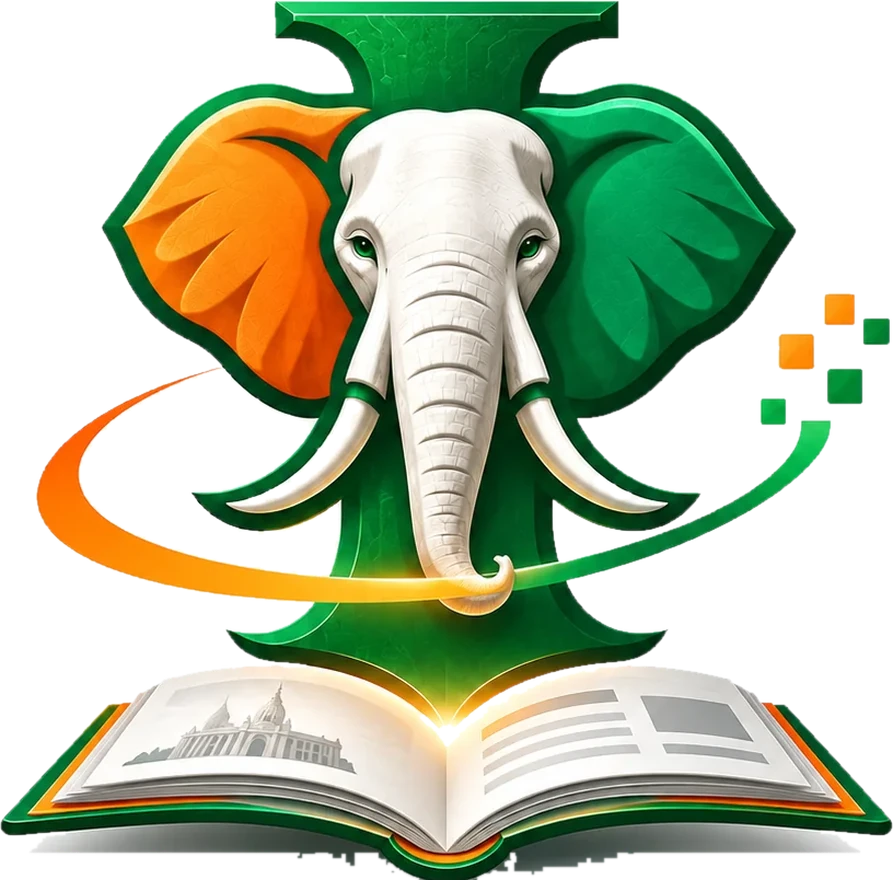
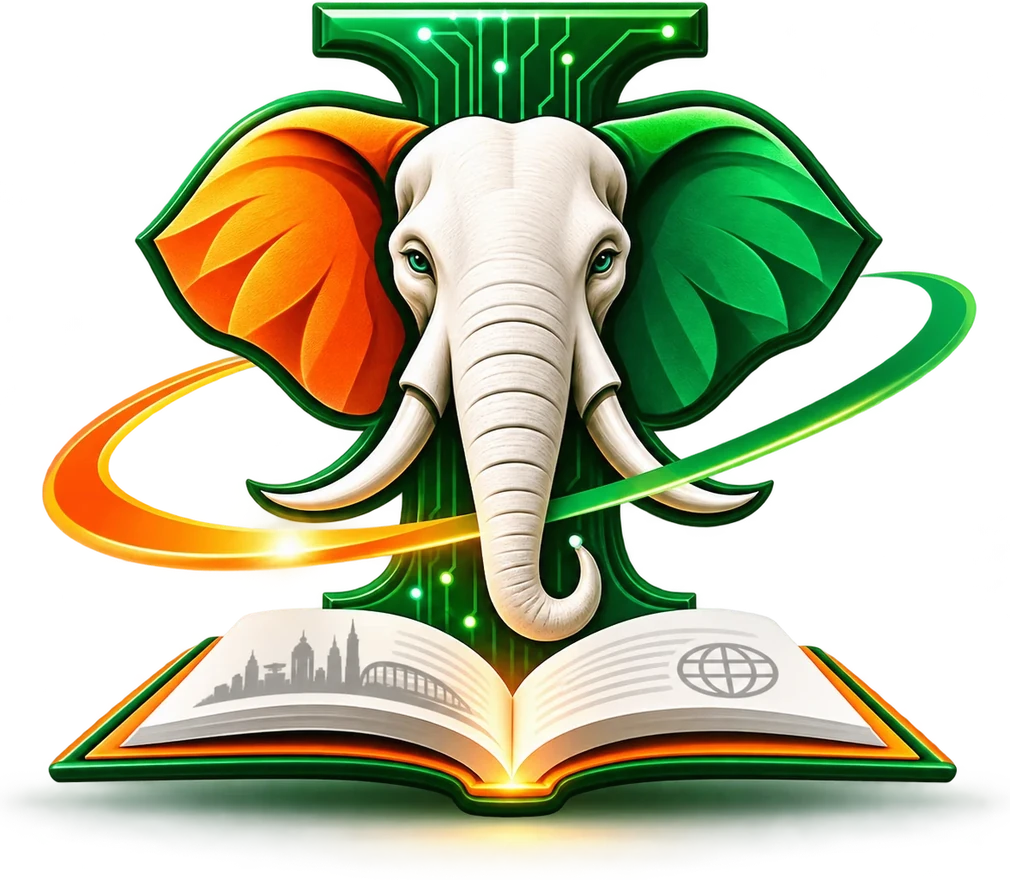
feat(brand): integrate the new emblem and wordmark assets
Rebuild marque, signature and icon files from the provided cutout
sources, fix the launch logo height, and mirror the fallbacks into
backend/public for the JSON-LD publisher logo.

🤖 Generated with Codebuff

diff --git a/app/lib/src/ui/cover.dart b/app/lib/src/ui/cover.dart
@@ -104,7 +104,7 @@ class CoverSheet extends StatelessWidget {
         color: IvoireColors.ivory,
         child: LayoutBuilder(
           builder: (context, constraints) {
-            // La signature est très large (1 200 × 282) : c'est la largeur
+            // La signature est très large (1 200 × 298) : c'est la largeur
             // qui contraint, sinon elle déborderait d'un téléphone. Elle est
             // contenue dans cette boîte, jamais rognée.
             final boxWidth = math.max(

diff --git a/app/web/index.html b/app/web/index.html
@@ -130,7 +130,7 @@
     <!-- WebP d'abord (26 ko), PNG en repli : la marque s'affiche tout de suite. -->
     <picture>
       <source srcset="logo.webp" type="image/webp">
-      <img src="logo.png" width="1200" height="282"
+      <img src="logo.png" width="1200" height="298"
            alt="Ivoirepedia, l’encyclopédie libre de la Côte d’Ivoire">
     </picture>
     <div class="progress"></div>

diff --git a/tools/build_brand_assets.py b/tools/build_brand_assets.py
@@ -1,9 +1,10 @@
 """Dérive les visuels de la marque IVOIREPEDIA depuis les originaux fournis.
 
-Les sources sont des images au fond crème (ou blanc) : le script détoure le
-fond par diffusion depuis les bords, retire le liseré clair, puis écrit les
-fichiers utilisés par l'application Flutter, l'écran de chargement HTML et
-les icônes d'onglet.
+Les sources sont fournies par le propriétaire du site : la dernière version
+est déjà détourée (canal alpha), le script se contente alors de la recadrer.
+Si une source revient sur fond crème (ou blanc), `cutout()` la détoure par
+diffusion depuis les bords. Le script écrit ensuite les fichiers utilisés par
+l'application Flutter, l'écran de chargement HTML et les icônes d'onglet.
 
 Utilisation (depuis la racine du dépôt) :
 
@@ -25,8 +26,12 @@ IMAGES = ROOT / "app" / "assets" / "images"
 WEB = ROOT / "app" / "web"
 ICONS = WEB / "icons"
 
-EMBLEM = ATTACHMENTS / "efc7deca08f0108cc6485429b2b50626c5a83b526cc23a76d0b62fd681e9b8cf.webp"
-LOCKUP = ATTACHMENTS / "08ee48063fb1057a7174bb005e4a859aecdca946c20a82558c7cadb9100c67f7.webp"
+EMBLEM = ATTACHMENTS / "454640e5327be3e58ffe4cd789506c13da159cc794a3316add712ab669a3b25b.webp"
+LOCKUP = ATTACHMENTS / "3ec145ef3cfa4d8fe552cbe8cffc0286be1f1b0f454bd8974f37417949e15243.webp"
+
+# Racine servie en production : les fichiers de repli de l'écran de
+# chargement y vivent aussi, JSON-LD (`publisher.logo`) compris.
+INSTANCE = ROOT / "backend" / "public"
 
 # Fond des icônes : le papier ivoire du site, opaque, pour que la marque reste
 # lisible sur un onglet clair comme sur un onglet sombre.
@@ -174,6 +179,12 @@ def _enclosed_holes(
     return holes
 
 
+def transparent(image: Image.Image) -> bool:
+    """Vrai si l'image arrive déjà détourée (fond alpha à zéro)."""
+    alpha = np.asarray(image.convert("RGBA"))[..., 3]
+    return bool((alpha == 0).any())
+
+
 def trim(image: Image.Image, pad: int = 0) -> Image.Image:
     """Recadre sur le sujet, avec une marge optionnelle."""
     box = image.getchannel("A").point(lambda value: 255 if value > 8 else 0).getbbox()
@@ -224,8 +235,12 @@ def square_icon(
     else:
         draw.rectangle((0, 0, size, size), fill=PAPER)
 
+    # Le gabarit est un carré : c'est la plus grande dimension de l'emblème
+    # qui le remplit, sinon une marque large déborderait de l'icône.
     target = round(size * fill)
-    scaled = resize(emblem, height=target)
+    scaled = resize(emblem, width=target)
+    if scaled.height > target:
+        scaled = resize(emblem, height=target)
     canvas.alpha_composite(
         scaled,
         ((size - scaled.width) // 2, (size - scaled.height) // 2),
@@ -237,24 +252,27 @@ def main() -> None:
     for directory in (IMAGES, ICONS):
         directory.mkdir(parents=True, exist_ok=True)
 
-    emblem_source = Image.open(EMBLEM).convert("RGB")
-    lockup_source = Image.open(LOCKUP).convert("RGB")
+    emblem_source = Image.open(EMBLEM).convert("RGBA")
+    lockup_source = Image.open(LOCKUP).convert("RGBA")
 
-    # Emblème : le visuel carré, sans le fond blanc.
-    # Le livre occupe le bas de l'emblème : ses pages restent opaques.
-    emblem = trim(cutout(emblem_source, pages_from=800))
+    # Emblème : le visuel seul, sans le fond. La source est déjà détourée ;
+    # `cutout()` ne sert que si elle revient sur fond clair.
+    emblem = trim(
+        emblem_source if transparent(emblem_source) else cutout(emblem_source, pages_from=800)
+    )
     save_webp(resize(emblem, height=880), IMAGES / "marque.webp")
 
     # Mot-symbole : la ligne « IVOIREPEDIA » de la signature horizontale,
-    # détachée de son emblème et de sa devise.
-    wordmark = trim(cutout(lockup_source.crop((610, 175, 1420, 292))), pad=2)
+    # détachée de son emblème, de son filet et de sa devise (bande y 155-282).
+    wordmark = trim(lockup_source.crop((600, 150, 1570, 290)), pad=2)
     save_webp(resize(wordmark, height=150), IMAGES / "logo-mot.webp")
 
-    # Signature complète : emblème + nom + devise, pour la couverture et le
-    # pied de page. Le fond crème disparaît, le papier du thème prend le relais.
-    # Dans la signature, le livre de l'emblème est plus petit : ses pages
-    # commencent vers y = 330.
-    lockup = trim(cutout(lockup_source, pages_from=330))
+    # Signature complète : emblème + nom + devise, pour la couverture, la
+    # manchette et l'écran de chargement. Le papier du thème prend le relais
+    # là où le fond est transparent.
+    lockup = trim(
+        lockup_source if transparent(lockup_source) else cutout(lockup_source, pages_from=330)
+    )
     save_webp(resize(lockup, width=1200), IMAGES / "logo.webp")
 
     # Écran de chargement HTML : la même signature, WebP puis PNG de repli.
@@ -286,6 +304,18 @@ def main() -> None:
         sizes=[(16, 16), (32, 32), (48, 48), (64, 64)],
     )
     print(f"app/web/favicon.ico  {(WEB / 'favicon.ico').stat().st_size:,} o")
+
+    # Replis côté serveur : la racine du site sert aussi l'emblème (JSON-LD
+    # `publisher.logo`) et les icônes même sans build Flutter.
+    INSTANCE.mkdir(parents=True, exist_ok=True)
+    loader.save(INSTANCE / "logo.png", optimize=True)
+    icon.resize((32, 32), Image.LANCZOS).save(INSTANCE / "favicon.png", optimize=True)
+    icon.resize((64, 64), Image.LANCZOS).save(
+        INSTANCE / "favicon.ico",
+        format="ICO",
+        sizes=[(16, 16), (32, 32), (48, 48), (64, 64)],
+    )
+    print(f"backend/public/logo.png  {(INSTANCE / 'logo.png').stat().st_size:,} o")
 
     # Contrôle visuel : la marque posée sur papier clair, sépia et nuit.
     for name, colour in (
